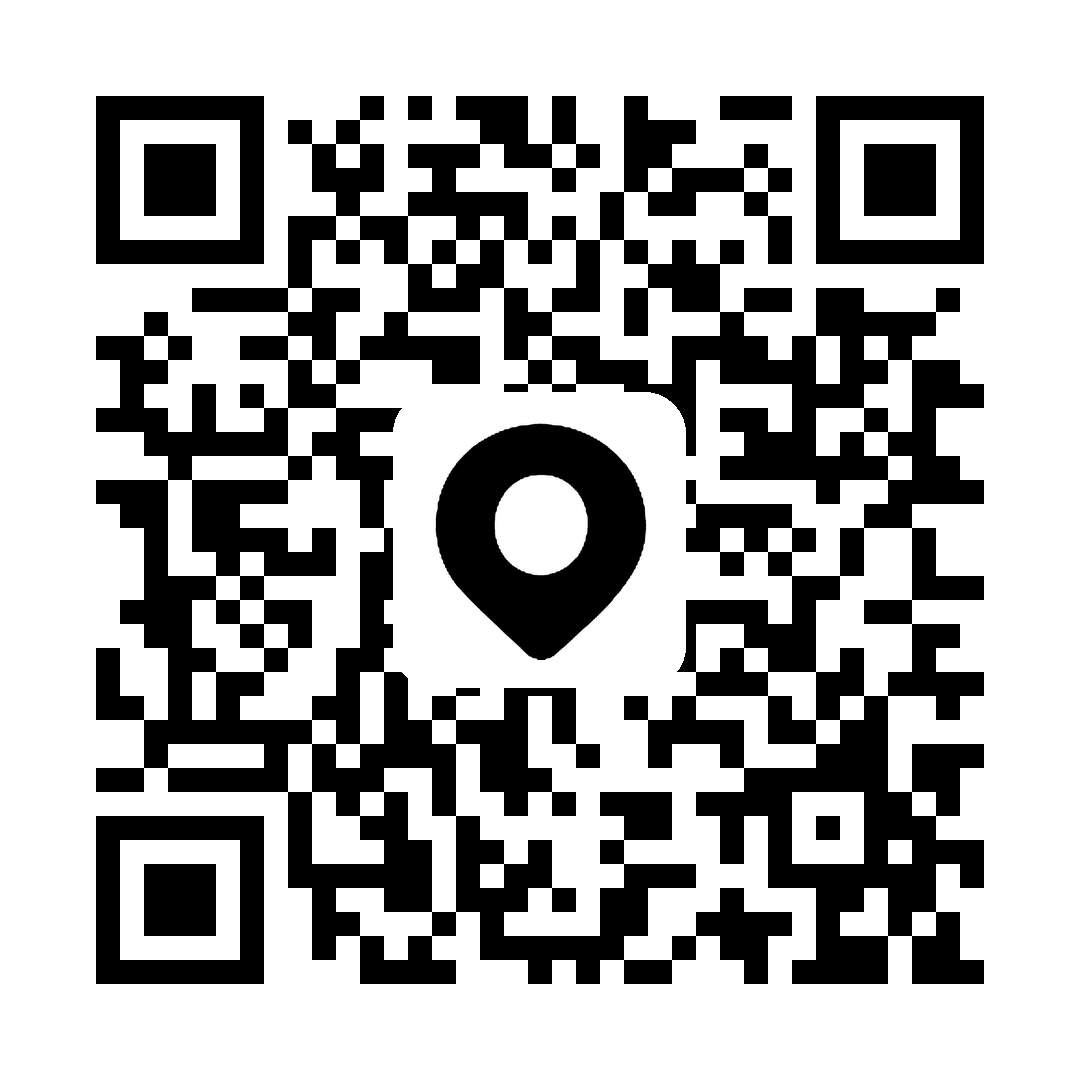
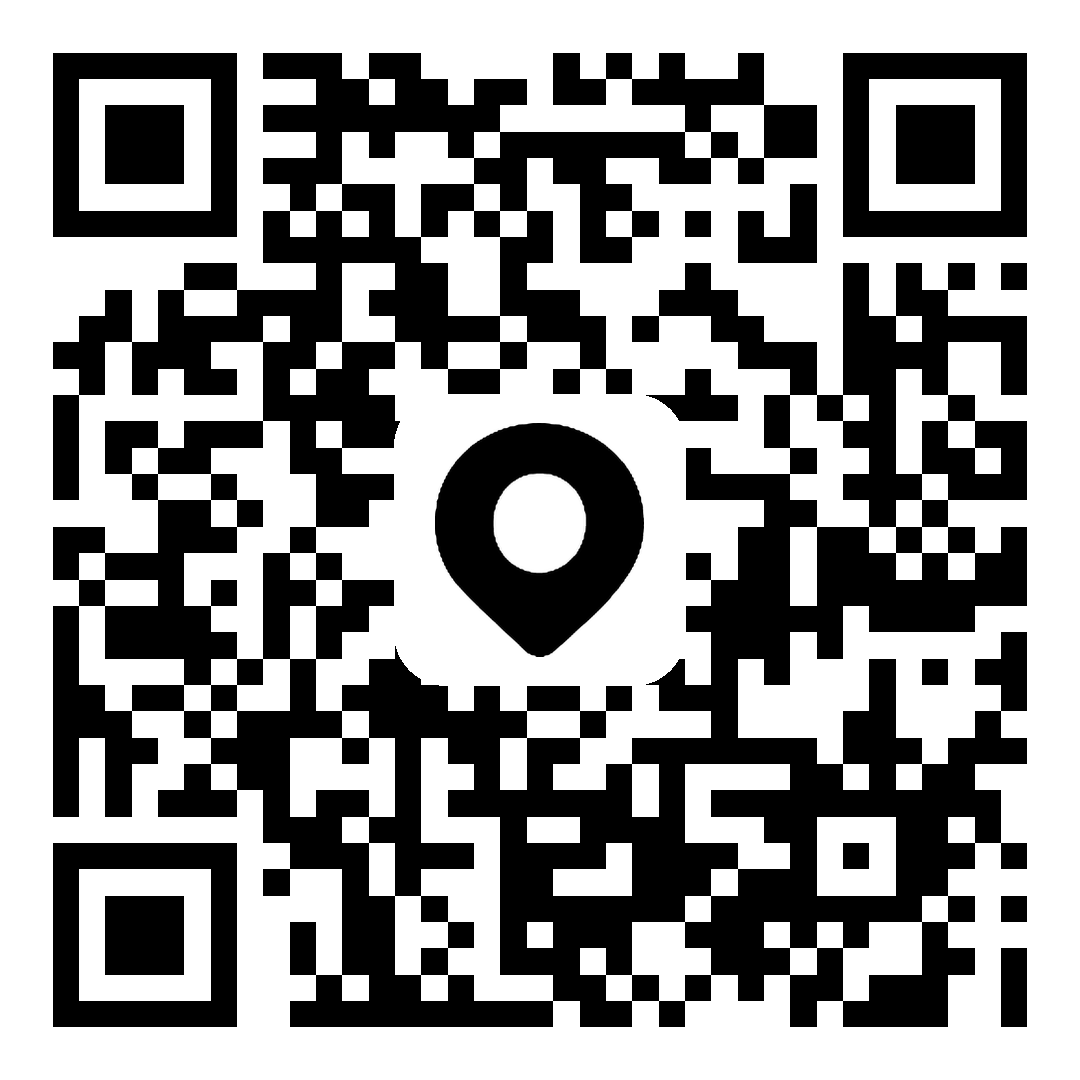
fix(qr): el codigo de descarga no escaneaba al tamano en que se muestra
Reportado como "el logo se ve distorsionado" en la tarjeta del login. Medido con
un decodificador real, el problema es peor que estetico: el QR NO DECODIFICA al
tamano en que la app lo pinta.

  QR anterior:  88 px -> no decodifica | 132 px -> no | 176 px -> si
  QR nuevo:     88 px -> si            | 132 px -> si | 176 px -> si

Dos causas, las dos arregladas:

1. El asset son 1080 px y la tarjeta lo muestra a 88. Reducir 12x al DIBUJAR usa
   un filtro bilineal que se come modulos enteros; de ahi el pin deformado. Ahora
   el reescalado lo hace el DECODIFICADOR (cacheWidth/cacheHeight, por
   devicePixelRatio con techo en 3), que promedia el area. El panel grande del
   login tenia el mismo problema, menos visible.

2. Aun con el reescalado correcto, el codigo anterior necesitaba 176 px para
   decodificar: demasiada densidad para 88. Se regenera con correccion H (30%),
   que suena a contrasentido —mas modulos— pero es lo que permite leerlo a 88 px,
   porque la redundancia compensa la perdida de resolucion. Verificado a 88, 132,
   176, 264 y 1080 px.

Mismo estilo: el pin va sobre un cuadro blanco redondeado al 27% del lado, el pin
al 19.4%, tal cual el arte que ya se usaba. El destino sigue siendo
https://obtener-clientes-app.sozu.com

El 88 pasa a ser una constante con nota: es el minimo al que este codigo escanea,
asi que bajarlo lo vuelve inutil.

diff --git a/lib/features/app_download/components/app_download.dart b/lib/features/app_download/components/app_download.dart
@@ -9,6 +9,11 @@ import 'package:sozu_cliente_app/widgets/portal_widgets.dart';
 
 const _kQrAsset = 'assets/images/sozu-qr-web.png';
 
+/// Lado del QR en la tarjeta compacta. 88 px es el mínimo al que este código
+/// (37x37 módulos con corrección H) sigue decodificando: verificado con un
+/// decodificador real. Bajarlo lo vuelve inescaneable.
+const double _kQrCardLado = 88;
+
 /// Redirector (Cloudflare Worker) que detecta el SO y manda a la tienda
 /// correcta. Es el MISMO destino que codifica el QR: una sola fuente de verdad.
 ///
@@ -56,12 +61,7 @@ class AppQrPanel extends StatelessWidget {
             borderRadius: BorderRadius.circular(t.radius.md),
             border: Border.all(color: t.color.border),
           ),
-          child: Image.asset(
-            _kQrAsset,
-            width: size,
-            height: size,
-            fit: BoxFit.contain,
-          ),
+          child: _QrImagen(lado: size),
         ),
       ],
     );
@@ -94,12 +94,7 @@ class AppQrCard extends StatelessWidget {
               color: Colors.white,
               borderRadius: BorderRadius.circular(t.radius.sm),
             ),
-            child: Image.asset(
-              _kQrAsset,
-              width: 88,
-              height: 88,
-              fit: BoxFit.contain,
-            ),
+            child: const _QrImagen(lado: _kQrCardLado),
           ),
           SizedBox(width: t.space.md),
           ConstrainedBox(
@@ -298,6 +293,36 @@ Future<void> openAppStore(
   if (!ok) {
     messenger.showSnackBar(
       const SnackBar(content: Text('No se pudo abrir la descarga.')),
+    );
+  }
+}
+
+/// Pinta el QR decodificándolo al tamaño en que se va a ver.
+///
+/// El asset son 1080 px y la tarjeta lo muestra a 88: reducir 12x al DIBUJAR usa
+/// un filtro bilineal que come módulos, y el resultado no solo se ve borroso —
+/// deja de escanear. Medido con un decodificador, no a ojo. `cacheWidth`/
+/// `cacheHeight` mueven el reescalado al decodificador, que promedia el área.
+///
+/// Se multiplica por el devicePixelRatio para no perder nitidez en pantallas
+/// Retina, con techo en 3: más allá solo se gasta memoria.
+class _QrImagen extends StatelessWidget {
+  final double lado;
+
+  const _QrImagen({required this.lado});
+
+  @override
+  Widget build(BuildContext context) {
+    final dpr = MediaQuery.devicePixelRatioOf(context).clamp(1.0, 3.0);
+    final px = (lado * dpr).round();
+    return Image.asset(
+      _kQrAsset,
+      width: lado,
+      height: lado,
+      fit: BoxFit.contain,
+      cacheWidth: px,
+      cacheHeight: px,
+      filterQuality: FilterQuality.medium,
     );
   }
 }
